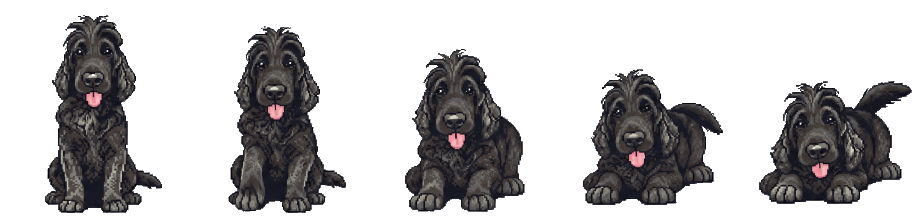
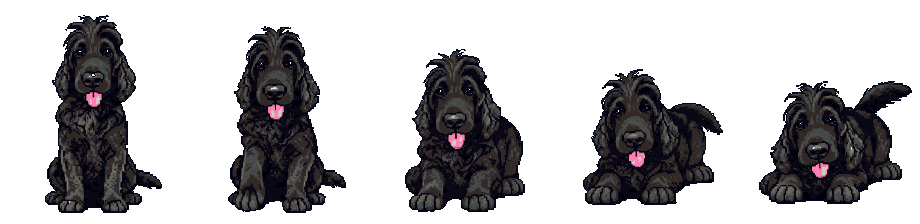
其余 7 个动画统一成待机图画风（同一调色板、亮度、描边）

diff --git a/.dev/unify.js b/.dev/unify.js
@@ -31,27 +31,30 @@ export async function idlePalette(src = '/assets/dog/idle.gif') {
   return { frames: half, pal, cdf: cdf(L) };
 }
 
-export function unifyFrames(frames, ref, outline = [0x03, 0x09, 0x1d]) {
+// keep(r,g,b,x,y)：返回 true 的像素原样保留（比如地上的影子、尘土），不调色也不描边
+export function unifyFrames(frames, ref, { outline = [0x03, 0x09, 0x1d], keep = () => false } = {}) {
   const L = [];
   for (const f of frames) for (let i = 0; i < f.data.length; i += 4) {
-    const d = f.data; if (d[i + 3] > 110 && !pink(d[i], d[i + 1], d[i + 2])) L.push(lum(d[i], d[i + 1], d[i + 2]));
+    const d = f.data, x = (i / 4) % f.width, y = Math.floor(i / 4 / f.width);
+    if (d[i + 3] > 110 && !pink(d[i], d[i + 1], d[i + 2]) && !keep(d[i], d[i + 1], d[i + 2], x, y)) L.push(lum(d[i], d[i + 1], d[i + 2]));
   }
   const cS = cdf(L), map = new Float64Array(256);
   for (let v = 0; v < 256; v++) { let j = 0; while (j < 255 && ref.cdf[j] < cS[v]) j++; map[v] = j; }
   return frames.map((f) => {
-    const W = f.width, H = f.height, d = f.data, o = new ImageData(W, H), e = o.data;
+    const W = f.width, H = f.height, d = f.data, o = new ImageData(W, H), e = o.data, kept = new Set();
     for (let i = 0; i < d.length; i += 4) {
       if (d[i + 3] <= 110) continue;
       let r = d[i], g = d[i + 1], b = d[i + 2];
+      if (keep(r, g, b, (i / 4) % W, Math.floor(i / 4 / W))) { e[i] = r; e[i + 1] = g; e[i + 2] = b; e[i + 3] = 255; kept.add(i); continue; }
       if (!pink(r, g, b)) { const l = lum(r, g, b) || 1, k = map[Math.min(255, Math.round(l))] / l; r *= k; g *= k; b *= k; }
       const [R, G, B] = nearest(ref.pal, r, g, b);
       e[i] = R; e[i + 1] = G; e[i + 2] = B; e[i + 3] = 255;
     }
-    const op = (x, y) => x >= 0 && y >= 0 && x < W && y < H && e[(y * W + x) * 4 + 3] > 0;
+    const op = (x, y) => x >= 0 && y >= 0 && x < W && y < H && e[(y * W + x) * 4 + 3] > 0 && !kept.has((y * W + x) * 4);
     const edge = [];
     for (let y = 0; y < H; y++) for (let x = 0; x < W; x++)
       if (op(x, y) && (!op(x - 1, y) || !op(x + 1, y) || !op(x, y - 1) || !op(x, y + 1))) edge.push((y * W + x) * 4);
-    for (const i of edge) if (!pink(e[i], e[i + 1], e[i + 2])) { e[i] = outline[0]; e[i + 1] = outline[1]; e[i + 2] = outline[2]; }
+    for (const i of edge) if (!kept.has(i) && !pink(e[i], e[i + 1], e[i + 2])) { e[i] = outline[0]; e[i + 1] = outline[1]; e[i + 2] = outline[2]; }
     return o;
   });
 }

diff --git a/AGENTS.md b/AGENTS.md
@@ -149,6 +149,8 @@ node tests/gestures.test.mjs
 
 ## 开发日志（最新的写在最上面）
 
+- **2026-11-08 · Claude**：其余 7 个动画（摸头、握手、装死、走开、跑过来、趴下、趴着）都用 `.dev/unify.js` 统一成待机图画风；走开/跑过来地上的浅灰影子用 `keep` 选项原样保留。帧数、帧序、配置都没变。统一前的原图备份在 `.dev/raw/before-unify/`（不进 git）。文件总共小了约一半。只本地提交，英文版主页要再同步。
+
 - **2026-11-08 · Claude**：转圈的狗在画风上统一成待机图（用户说一眼能看出不是一个动画）。分析：待机 GIF 是 184×224 的像素画放大 2 倍，只有约 34–41 色、近黑偏藏青、外圈有 #03091d 描边；转圈 GIF 偏棕偏亮、边缘糊、颜色 200+、没有描边。新工具 `.dev/unify.js`（浏览器里 import）：亮度直方图对齐待机图 → 每个颜色换成待机调色板里最近的 → 透明二值化 → 贴边一圈换成深藏青描边（舌头粉色不参与亮度映射）。`spin.png` 用它重做，22 帧帧序不变，但第一帧和最后一帧直接用待机图第 0 帧（开始/结束无缝）。其他动作（摸头、握手、装死、走开、跑过来、趴下）还没统一，以后可以用同一个工具。只本地提交。
 
 - **2026-11-08 · Claude**：修动画切换时的闪烁（用户发现趴下有闪一下）：① `playSprite` 换图时会先把宽度清空、等图片 onload 再设回帧比例，中间有一两帧狗被拉宽；② 第一次播某个动作时图片现场加载，狗空白一下。趴下连换两张图（`liedown` → `lying`）最明显。改法：`Pet.preload()` 打开网页就把所有非视频素材加载并 `decode()`，引用留在 `this.sheets`，顺便算好精灵图帧宽高比；`playSprite` 换图时直接用算好的宽度，不再清空。所有动作都受益。只本地提交。
